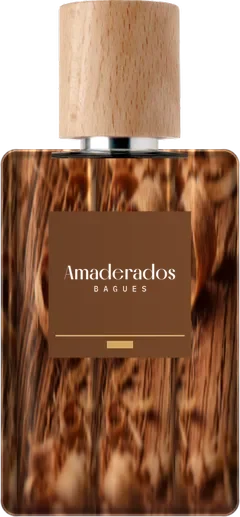
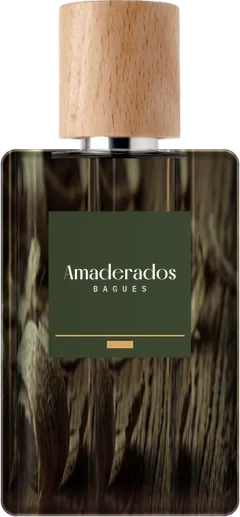
Destacados recto con telón vino; Dulces y Amaderados se distinguen
Sebas no quiso los bordes curvos de "Los más pedidos". La banda es recta
y, cuando la sección toca la franja central de la pantalla, dos paños de
vino liso (100svh, arriba y abajo) pasan de scaleY(0) a scaleY(1) en
0,5 s y cubren todo: "ahora solo estoy en esta sección". Al seguir de
largo vuelven a su lugar. Solo transform, un IntersectionObserver y nada
de oyente de scroll: no empujan a las vecinas ni frenan el scroll. La
barra pasa a noche mientras dura (elementsFromPoint no ve los paños).
Con movimiento reducido o sin JS, la banda recta y quieta.

Trampa encontrada: content-visibility: auto (tienda.css) recortaba los
paños a la caja de la sección. La regla que lo apaga necesitaba los dos
:not(#id) de la global para ganarle.

Familias: Dulces y Amaderados salían de dos texturas marrones y se veían
iguales. Sin generar imágenes nuevas, hornear_piezas.py suma AJUSTES por
familia (recorte, saturación, gamma): Dulces clara, caramelo y crema con
etiqueta vainilla #ecd3b0; Amaderados oscura y fría, cedro y musgo, con
etiqueta verde bosque #3f4a33. Contraste de la etiqueta 10,6 y 9,1:1.
Frescos, Florales y Ámbar sin cambios.

Medido (Chromium, 390 px, CPU 6x, intercalado contra producción):
bajando 59 contra 58 fps, deslizando la fila 60 contra 60. Banco 94/94,
motores.py sin fallas.

diff --git a/src/components/tienda/Destacados.jsx b/src/components/tienda/Destacados.jsx
@@ -2,26 +2,12 @@ import { Fragment, memo, useCallback, useEffect, useRef, useState } from 'react'
 import { useCart } from '../../contexts/CartContext';
 import { ahorroDe, esPublicable, lineaTarjeta, presentacionesActivas, presentacionPorDefecto, tituloDe } from '../../lib/producto';
 import { precargarFoto } from '../../lib/fotos';
+import { medirDeNuevo } from '../../lib/alScroll';
 import { pesos } from '../../lib/format';
 import { DESTACADOS, TARJETA, conDatos } from '../../config/contenido';
 import { PROPORCION } from '../../config/ajustes';
 import ProductThumb from './ProductThumb';
 import s from './Destacados.module.css';
-
-/**
- * El borde de la banda: una curva DIBUJADA y quieta (26/11: el slime que se
- * estiraba y la pausa pegada se sentian raros, como si el scroll se trabara).
- * La de abajo es la misma girada 180 grados.
- */
-const ONDA = 'M0 100V58C160 30 330 14 520 26C700 38 820 70 1010 64C1180 58 1320 30 1440 22V100Z';
-
-function Borde({ clase }) {
-  return (
-    <div className={`${s.borde} ${clase}`} aria-hidden="true">
-      <svg viewBox="0 0 1440 100" preserveAspectRatio="none" focusable="false"><path d={ONDA} /></svg>
-    </div>
-  );
-}
 
 const dos = (n) => String(n).padStart(2, '0');
 
@@ -89,6 +75,9 @@ const Tarjeta = memo(function Tarjeta({ p, activa, onOpen, onMas }) {
  * Los más pedidos (rediseño D, plano 4: el clímax). La sección entera del vino
  * de la marca, con las fotos sobre la misma pared del hero. Una fila que se
  * desliza; precio a pagar en crema y el de lista tachado (no negociable 11).
+ *
+ * Banda recta que, al quedar en pantalla, se expande en vino hasta cubrirla
+ * entera (dos panos con scaleY) y vuelve a su lugar al seguir de largo.
  *
  * El movimiento (26/11, "a la altura de un estudio"): nada atado a pausar el
  * scroll. El titulo sube palabra por palabra al entrar; en el celular la
@@ -162,6 +151,25 @@ export default function Destacados({ products, onOpen, onElegir, cargando = fals
     return () => { io.disconnect(); delete sec.dataset.entrada; };
   }, [hay]);
 
+  // La banda inmersiva: cuando la seccion toca la franja central de la
+  // pantalla se marca data-inmerso y los dos panos vino (scaleY) cubren todo.
+  // Un IntersectionObserver, sin oyente de scroll nuevo. Como la barra decide
+  // su color con elementsFromPoint (que no ve los panos, pointer-events none),
+  // al cambiar la marca se pide una pasada a alScroll (medirDeNuevo) y la
+  // barra mira data-inmerso. Sin JS o con movimiento reducido: banda recta.
+  useEffect(() => {
+    const sec = seccionRef.current;
+    if (!hay || !sec || typeof IntersectionObserver === 'undefined') return undefined;
+    if (window.matchMedia('(prefers-reduced-motion: reduce)').matches) return undefined;
+    const io = new IntersectionObserver(([e]) => {
+      if (e.isIntersecting) sec.dataset.inmerso = '';
+      else delete sec.dataset.inmerso;
+      medirDeNuevo();
+    }, { rootMargin: '-40% 0px -40% 0px' });
+    io.observe(sec);
+    return () => { io.disconnect(); delete sec.dataset.inmerso; medirDeNuevo(); };
+  }, [hay]);
+
   /** El + de la tarjeta: con un tamano agrega directo; con mas, la hoja.
    *  Estable (useCallback): las tarjetas van con memo y, al cambiar la activa
    *  mientras se desliza la fila, solo se vuelven a dibujar las dos que cambian. */
@@ -216,7 +224,8 @@ export default function Destacados({ products, onOpen, onElegir, cargando = fals
 
   return (
     <section className={s.section} ref={seccionRef}>
-      <Borde clase={s.bordeTope} />
+      <div className={s.pano} data-pano="arriba" aria-hidden="true" />
+      <div className={s.pano} data-pano="abajo" aria-hidden="true" />
       <div className={s.banda}>
         <div className={`tw ${s.marco}`}>
           <header className={s.head}>
@@ -305,7 +314,6 @@ export default function Destacados({ products, onOpen, onElegir, cargando = fals
           </div>
         </div>
       </div>
-      <Borde clase={s.bordeBase} />
     </section>
   );
 }

diff --git a/src/components/tienda/Destacados.module.css b/src/components/tienda/Destacados.module.css
@@ -1,42 +1,52 @@
-/* Los mas pedidos (rediseño D, plano 4): el climax. Una banda vino con los
-   bordes curvos, la fila de los que mas salen y un selector abajo.
+/* Los mas pedidos (rediseño D, plano 4): el climax. Una banda vino RECTA, la
+   fila de los que mas salen y un selector abajo.
 
-   26/11: se saco el slime (hojas que se estiraban con scaleY y una pausa
-   pegada con sticky). Con el dedo, la pagina se quedaba quieta un tramo y se
-   sentia trabada. Ahora el movimiento esta en lo que se toca, no en el scroll:
+   Inmersion (26/11): cuando la seccion queda en la franja central de la
+   pantalla, dos panos de vino liso (uno arriba, otro abajo, cada uno de una
+   pantalla de alto) pasan de scaleY(0) a scaleY(1) y cubren todo: "ahora solo
+   estoy en esta seccion". Es color liso, escalar no deforma. Los panos son
+   absolutos y salen del flujo: no empujan ni aprietan a las vecinas. Al seguir
+   de largo vuelven en 0,5 s, sin rebote. Solo transform. El disparador es un
+   IntersectionObserver (data-inmerso), sin oyente de scroll.
+
+   Antes: se saco el slime (hojas que se estiraban con scaleY y una pausa
+   pegada con sticky) y despues los bordes curvos. Con el dedo, la pagina se
+   quedaba quieta un tramo y se sentia trabada. El movimiento del resto esta en
+   lo que se toca, no en el scroll:
    - el titulo sube palabra por palabra al entrar (una vez, con una clase);
    - en el celular la tarjeta del medio queda entera y las de los costados se
      achican apenas, siguiendo al dedo;
    - una pildora corre con la fila y el contador rueda;
    - el + pasa a tilde con una onda, las flechas son magneticas.
-   Todo con transform y opacity. Sin oyente de scroll de la pagina.
-
-   --onda es lo que sobresale arriba y abajo: menos que el relleno de las
-   secciones vecinas, tapa papel y nunca un texto. La seccion lo resta con
-   margen negativo: no empuja nada (cero CLS). */
+   Todo con transform y opacity. */
 .section {
-  --onda: clamp(30px, 6vw, 84px);
   position: relative; z-index: 2;
-  margin-block: calc(var(--onda) * -1);
   color: var(--crema);
 }
-:global(.tienda) > main > section.section:not(#inicio-hero) {
+/* content-visibility: auto (tienda.css) recorta la pintura a la caja de la
+   seccion y los panos no se verian afuera. Los dos :not(#id) empatan los de
+   la regla de tienda.css y la clase de mas la gana: con uno solo perdia y los
+   panos quedaban cortados (el de abajo no tapaba "Como funciona"). */
+:global(.tienda) > main > section.section:not(#inicio-hero):not(#catalogo) {
   content-visibility: visible; contain-intrinsic-size: none;
 }
 
-.borde { position: relative; height: var(--onda); overflow: hidden; pointer-events: none; }
-.borde svg {
-  position: absolute; top: 0; left: 50%; translate: -50% 0;
-  width: max(100%, 900px); height: 100%; display: block;
+/* Los panos: detras del contenido de la propia seccion (z 0, la banda va en
+   z 1) y por encima de las vecinas (la seccion es z 2). En reposo, planos. */
+.pano {
+  position: absolute; left: 0; right: 0; height: 100svh; z-index: 0;
+  background: var(--vino); pointer-events: none;
+  transform: scaleY(0);
 }
-.borde path { fill: var(--vino); }
-.bordeBase svg { rotate: 180deg; }
-/* Sin costura entre la curva y la banda: se pisan un pixel. */
-.bordeTope { margin-bottom: -1px; }
-.bordeBase { margin-top: -1px; }
+.pano[data-pano='arriba'] { bottom: 100%; transform-origin: 50% 100%; }
+.pano[data-pano='abajo'] { top: 100%; transform-origin: 50% 0; }
+@media (prefers-reduced-motion: no-preference) {
+  .pano { transition: transform 0.5s cubic-bezier(0.22, 1, 0.36, 1); }
+  [data-inmerso] .pano { transform: scaleY(1); }
+}
 
 .banda {
-  position: relative;
+  position: relative; z-index: 1;
   padding-block: clamp(36px, 7vw, 96px) clamp(40px, 6vw, 84px);
   background:
     radial-gradient(70% 45% at 50% 30%, rgba(158, 35, 53, 0.36), rgba(158, 35, 53, 0) 72%),

diff --git a/src/components/tienda/TiendaLayout.jsx b/src/components/tienda/TiendaLayout.jsx
@@ -141,7 +141,9 @@ export default function TiendaLayout({ children, ficha = null, hoja = null, capa
       const barra = document.querySelector('.tienda > header');
       const y = (barra?.offsetHeight || 74) + 2;
       const debajo = document.elementsFromPoint(Math.min(24, innerWidth - 1), y).find((e) => !e.closest('.tienda > header'));
-      const nueva = !debajo ? 'noche'
+      // Los panos de "Los mas pedidos" tienen pointer-events none: elementsFromPoint
+      // no los ve, asi que con la banda inmersa la luz es noche (vino que cubre todo).
+      const nueva = !debajo || document.querySelector('[data-inmerso]') ? 'noche'
         : debajo.closest('#inicio-hero') && !debajo.closest('[data-hero=cinta]') ? 'hero'
         : debajo.closest('.dia') ? 'dia'
         : 'noche';

diff --git a/scripts/rediseno/hornear_piezas.py b/scripts/rediseno/hornear_piezas.py
@@ -28,16 +28,36 @@ FAMILIAS = {
     # nombre: (archivo generado, color de etiqueta, gradacion rgb)
     'citricos':   ('textura_citricos_gen.webp',   '#d9c45a', (1.00, 0.97, 0.86)),
     'florales':   ('textura_florales_gen.webp',   '#e0708a', (1.00, 0.94, 0.95)),
-    'dulces':     ('textura_dulces_gen.webp',     '#b8693a', (1.00, 0.93, 0.86)),
-    'amaderados': ('textura_amaderados_gen.webp', '#7a4a2c', (1.00, 0.94, 0.88)),
+    'dulces':     ('textura_dulces_gen.webp',     '#ecd3b0', (1.00, 0.88, 0.70)),
+    'amaderados': ('textura_amaderados_gen.webp', '#3f4a33', (0.80, 0.93, 0.84)),
     'ambar':      ('textura_ambar_gen.webp',      '#c9772a', (1.00, 0.92, 0.82)),
 }
 
-def textura_base(archivo, grad):
+# 26/11/2026, pedido de Sebas: "diferenciar bien los colores y composicion en
+# familias, de dulce y amaderado, son muy similares". Los dos eran marrones con
+# etiqueta marron. Ajustes opcionales por familia (las otras tres no los
+# tienen y salen igual que antes):
+#   recorte: (x0, y0, lado) en fraccion de la textura; se toma ese cuadrado.
+#   sat: 1 deja el color, menos de 1 lo apaga hacia gris.
+#   gamma: sobre el valor (menos de 1 aclara, mas de 1 oscurece).
+AJUSTES = {
+    # vaina de vainilla con los hilos de crema, en diagonal; clara y cremosa
+    'dulces':     dict(recorte=(0.42, 0.18, 0.58), sat=0.95, gamma=0.70),
+    # veta recta de cedro; oscura, fria, con un dejo de verde musgo
+    'amaderados': dict(recorte=(0.40, 0.00, 0.60), sat=0.60, gamma=1.30),
+}
+
+def textura_base(archivo, grad, recorte=None, sat=1.0, gamma=1.0):
     im = Image.open(os.path.join(H.GEN, archivo)).convert('RGB')
+    if recorte:
+        x0, y0, l = recorte; w_, h_ = im.size
+        im = im.crop((round(x0 * w_), round(y0 * h_), round((x0 + l) * w_), round((y0 + l) * h_)))
     im = im.resize((1200, 1200), Image.LANCZOS).filter(ImageFilter.UnsharpMask(radius=1.4, percent=60, threshold=2))
     a = np.asarray(im).astype(np.float32) / 255
-    a = a * np.array(grad, np.float32)
+    if sat != 1.0:
+        gris = a @ np.array([0.2126, 0.7152, 0.0722], np.float32)
+        a = gris[..., None] + (a - gris[..., None]) * sat
+    a = np.clip(a * np.array(grad, np.float32), 0, 1) ** gamma
     # bajar un poco la clave para que viva en la paleta noir, sin apagarla
     a = a ** 1.08
     yy, xx = np.mgrid[0:1200, 0:1200].astype(np.float32) / 1200
@@ -126,7 +146,7 @@ def hacer_texturas():
     out = os.path.join(SAL, 'texturas'); os.makedirs(out, exist_ok=True)
     res = {}
     for nombre, (arch, col, grad) in FAMILIAS.items():
-        tex = textura_base(arch, grad)
+        tex = textura_base(arch, grad, **AJUSTES.get(nombre, {}))
         Image.fromarray(a_u8(tex)).save(os.path.join(out, f'textura_{nombre}.png'), optimize=True)
         pes = H.exportar_peso(tex, os.path.join(out, f'textura_{nombre}'), max_kb=160, q_webp=84, q_avif=62)
         fr = textura_en_frasco(tex, col)
@@ -142,7 +162,7 @@ def familias_web(foto_en_etiqueta):
     recortados a la silueta y a 240 y 420 px de ancho."""
     out = os.path.join(SAL, 'familias_foto' if foto_en_etiqueta else 'familias_color'); os.makedirs(out, exist_ok=True)
     for nombre, (arch, col, grad) in FAMILIAS.items():
-        fr = a_u8(textura_en_frasco(textura_base(arch, grad), col, foto_en_etiqueta))
+        fr = a_u8(textura_en_frasco(textura_base(arch, grad, **AJUSTES.get(nombre, {})), col, foto_en_etiqueta))
         im = Image.fromarray(fr); im = im.crop(im.getchannel('A').point(lambda v: 255 if v > 8 else 0).getbbox())
         for ancho in (240, 420):
             im.resize((ancho, round(im.height * ancho / im.width)), Image.LANCZOS).save(os.path.join(out, f'{nombre}-{ancho}.webp'), quality=84, method=6)

diff --git a/docs/ANIMACION-Y-VELOCIDAD.md b/docs/ANIMACION-Y-VELOCIDAD.md
@@ -42,6 +42,8 @@ Por eso el fondo, la placa del precio y los frascos entran solo con movimiento. 
 
 ## 4. Números medidos en este proyecto
 
+**Destacados con telón (26/11/2026, después).** Sebas no quiso los bordes curvos: la banda es recta y, cuando la sección toca la franja central de la pantalla (IntersectionObserver con `rootMargin: -40% 0px -40% 0px`), dos paños de vino liso de `100svh` (arriba y abajo, `position: absolute`) pasan de `scaleY(0)` a `scaleY(1)` en 0,5 s y cubren todo. Al seguir de largo vuelven. No empujan a las vecinas ni pausan el scroll. La barra pasa a noche con `data-inmerso` (elementsFromPoint no ve los paños) y se re-mide con `medirDeNuevo()`. Medido igual que abajo, intercalado contra producción: bajando 59 contra 58 fps, deslizando la fila 60 contra 60. Trampa: `content-visibility: auto` de `tienda.css` recorta la pintura a la caja de la sección; la regla que lo apaga en `Destacados.module.css` necesita los dos `:not(#id)` para ganarle.
+
 **Destacados sin slime (26/11/2026).** Sebas sintió raro el slime: la pausa pegada hacía que el scroll pareciera trabado. Se sacó y el movimiento pasó a lo que se toca: el título sube palabra por palabra al entrar, la tarjeta del medio queda entera y las otras se achican (transición por `data-activa`), una píldora y un contador siguen a la fila, el `+` pasa a tilde con una onda, el carrito da un latido y las flechas son magnéticas. Medido en Chromium con Playwright (Windows), 390 px, dpr 2, CPU 6x, versión vieja y nueva servidas en local e intercaladas:
 
 - Bajando la página: vieja 54, nueva 51 fps. La vieja sin su pausa pegada da 52: parte de su ventaja era tener la escena quieta mientras el dedo bajaba.

diff --git a/CLAUDE.md b/CLAUDE.md
@@ -189,6 +189,7 @@ Cada una costó un error real. Antes de "arreglar" algo parecido, leer esto.
 - **El pie se pintaba encima de la ficha.** Los diálogos van fuera de `<main>`,
   como hermanos, y con un diálogo abierto el resto queda `inert`.
 - **`content-visibility: auto` esconde errores en las pruebas.**
+- **`content-visibility: auto` también recorta lo que sobresale de la sección** (los paños del telón de Destacados). La regla de `tienda.css` lleva dos `:not(#id)`: la que lo apaga tiene que empatarlos o pierde.
 - **`inert` le saca el foco a lo que queda adentro.**
 - **El `::after` que agranda un área táctil se mide desde adentro del borde.**
 - **`naturalWidth` con `srcset` viene dividido por la densidad.**
